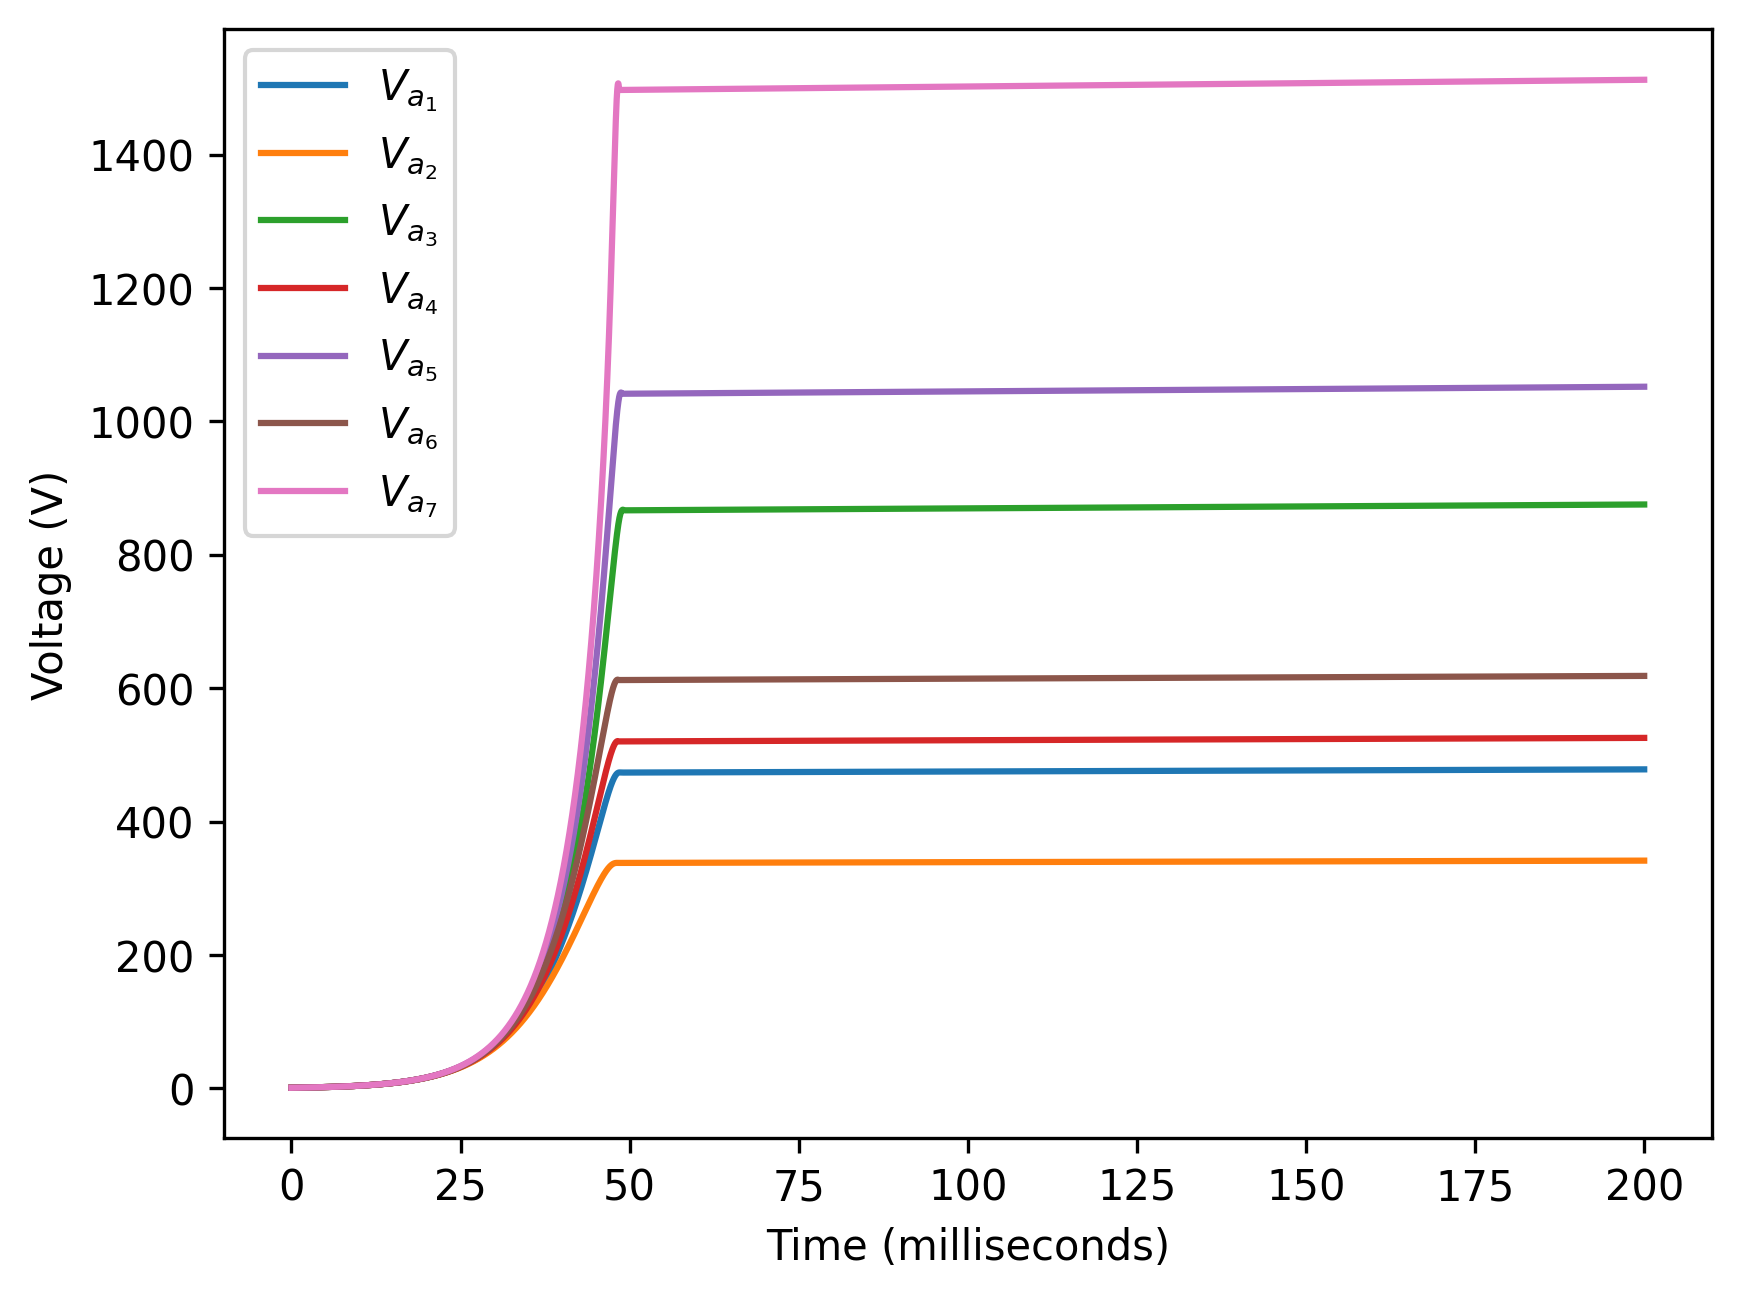
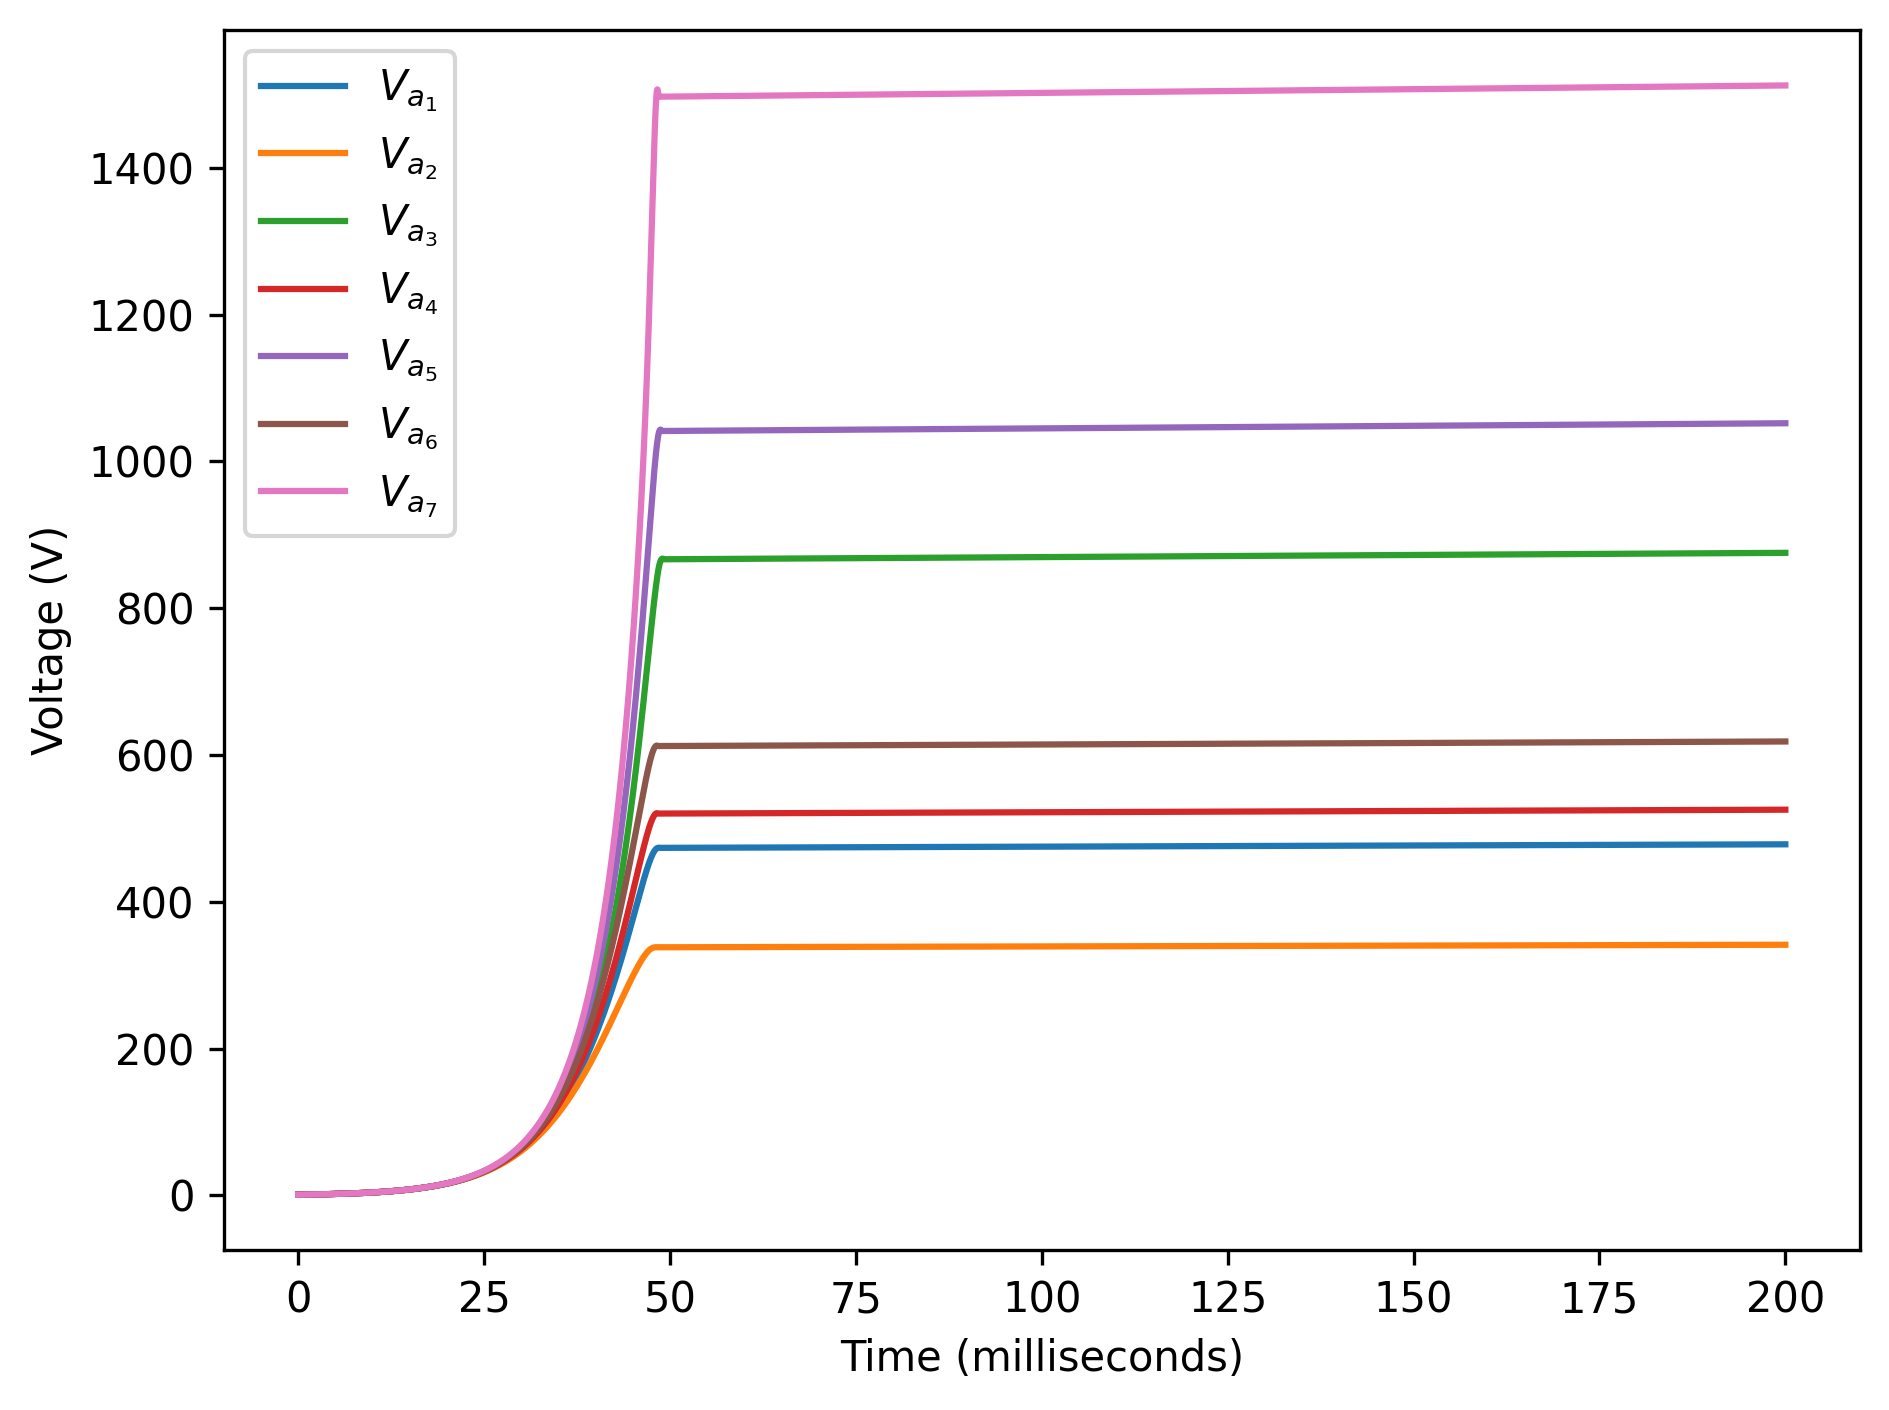
am new updated plots

diff --git a/src/am_new.py b/src/am_new.py
@@ -91,12 +91,13 @@ def simulate_am_circuit():
     """
     # Define component values
     # R = 10e3
-    R = 15990
-    C = 0.01e-6
+
+    R = 15e3  # 15kΩ
+    C = 10e-9  # 10nF
 
     # Set simulation parameters
     step_time = 1@u_us  # Larger step size for more stable solution
-    end_time = 0.5@u_ms  # Simulation duration
+    end_time = 500@u_us  # Simulation duration
     
     # Create figures for combined plots
     fig1 = plt.figure(figsize=(15, 10))
@@ -110,7 +111,7 @@ def simulate_am_circuit():
     all_growth_rates = []
     all_labels = []
 
-    n1_init = 0.01
+    n1_init = 1.0
     cases = [
         {'vi1': 0.0, 'vi2': 0.0, 'vi3': 0.0, 'cm1': 1, 'cm2': 1, 'cm3': 1},
         {'vi1': 0.0, 'vi2': 0.0, 'vi3': 0.0, 'cm1': -1, 'cm2': -1, 'cm3': -1},
@@ -164,15 +165,14 @@ def simulate_am_circuit():
         
         # Set analysis parameters to improve convergence
         simulator.options(
-            reltol=1e-2,       # Reasonable tolerance 
-            abstol=1e-4,       # Reasonable absolute tolerance
-            method='trap',     # Trapezoidal integration method
-            gmin=1e-9,         # Minimum conductance
-            maxord=2,          # Maximum order for integration method
-            itl1=500,          # Increased DC iteration limit
-            itl4=2000,         # Increased transient iteration limit
-            maxstep=10e-6,     # Larger maximum time step
-            uic=True           # Use initial conditions (crucial for correct behavior)
+            reltol=1e-2,     # Relaxed relative tolerance (was 1e-3)
+            abstol=1e-5,     # Relaxed absolute tolerance (was 1e-6)
+            itl1=500,        # Increased DC iteration limit (was 100)
+            itl2=200,        # Increased DC transfer curve iteration limit (was 50)
+            itl4=100,        # Transient analysis iteration limit
+            gmin=1e-10,      # Minimum conductance
+            method='gear',   # Integration method (alternatives: 'trap', 'euler')
+            maxord=2         # Maximum order for integration method
         )
         
         # Run transient simulation
@@ -211,22 +211,23 @@ def simulate_am_circuit():
         all_labels.append(f'R = {R/1000:.1f} kΩ')
     
         # Plot on the combined figures
-        plotted = ax1.plot(time * 1000, vam, linestyle='-', linewidth=1, label=f'vi1={vi1}, vi2={vi2}, vi3={vi3}, cm1={cm1}, cm2={cm2}, cm3={cm3}')
-        color = plotted[0].get_color()
-        ax1.plot(time * 1000, vam_theory, linestyle='--', linewidth=2, label=f'Theoretical vi1={vi1}, vi2={vi2}, vi3={vi3}, cm1={cm1}, cm2={cm2}, cm3={cm3}', color=color)
-        ax2.semilogy(time * 1000, np.abs(vam), linewidth=2, label=f'vi1={vi1}, vi2={vi2}, vi3={vi3}, cm1={cm1}, cm2={cm2}, cm3={cm3}')
+        label = f'$V_{{i_1}}={vi1}$ V, $V_{{i_2}}={vi2}$ V, $V_{{i_3}}={vi3}$ V, $c_{{m,i_1}}={cm1}$, $c_{{m,i_2}}={cm2}$, $c_{{m,i_3}}={cm3}$'
+        plotted = ax1.plot(time * 1000000, vam, linestyle='-', linewidth=2, label=label)  # noqa: F841
+        # color = plotted[0].get_color()
+        # ax1.plot(time * 1000000, vam_theory, linestyle='--', linewidth=2, label=f'Theoretical vi1={vi1}, vi2={vi2}, vi3={vi3}, cm1={cm1}, cm2={cm2}, cm3={cm3}', color=color)
+        ax2.semilogy(time * 1000000, np.abs(vam), linewidth=2, label=label)
     
     # Format the first figure (linear and log plots)
-    ax1.set_xlabel('Time [ms]', fontsize=12)
+    ax1.set_xlabel('Time [$\mu$s]', fontsize=12)
     ax1.set_ylabel('Output Voltage (Vam) [V]', fontsize=12)
-    ax1.set_title('AM Circuit Output Voltage vs Time (All Resistances)', fontsize=14)
-    ax1.set_ylim(0, 1)
+    ax1.set_title('$V_{{a_m}}$ vs Time', fontsize=14)
+    ax1.set_ylim(0, 20)
     ax1.grid(True)
     ax1.legend(fontsize=10)
     
-    ax2.set_xlabel('Time [ms]', fontsize=12)
+    ax2.set_xlabel('Time [$\mu$s]', fontsize=12)
     ax2.set_ylabel('|Output Voltage| (Log Scale) [V]', fontsize=12)
-    ax2.set_title('AM Circuit Output Voltage - Log Scale (All Resistances)', fontsize=14)
+    ax2.set_title('$V_{{a_m}}$ vs Time - Log Scale', fontsize=14)
     ax2.grid(True)
     ax2.legend(fontsize=10)
     

diff --git a/src/main.py b/src/main.py
@@ -316,13 +316,14 @@ def plot_3sat_results(analysis, variable_names, clauses, file_name, show_plot=Tr
         node_name = f'var_{name}'
         final_voltage = float(analysis[node_name][-1])
         satisfied_text = "True" if final_voltage > 0.5 else "False"
-        plt.plot(analysis.time * 1e3, analysis[node_name], label=f'$V_{i + 1}$ ({satisfied_text})')
+        plt.plot(analysis.time * 1e3, analysis[node_name], label=f'$V_{{{i + 1}}}$ ({satisfied_text})')
             
     # Add a title and y-label for this subplot
     # plt.title('Evolution of variable voltages over time')
     plt.xlabel('Time (milliseconds)')
     plt.ylabel('Voltage (V)')
     plt.legend()
+    plt.tight_layout()
 
     # Save the plot
     plt.savefig(f'graphs/{file_name}_variables.png', dpi=300, bbox_inches='tight')
@@ -334,13 +335,14 @@ def plot_3sat_results(analysis, variable_names, clauses, file_name, show_plot=Tr
     # Plot each clause's vam node
     for i in range(len(clauses)):
         node_name = f'xclause_{i}.vam'
-        plt.plot(analysis.time * 1e3, analysis[node_name], label=f'$V_{{a_{i + 1}}}$')
+        plt.plot(analysis.time * 1e3, analysis[node_name], label=f'$V_{{a_{{{i + 1}}}}}$')
         
     # Add a title and y-label for this subplot
     # plt.title('Evolution of clause auxiliary node voltages over time')
     plt.xlabel('Time (milliseconds)')
     plt.ylabel('Voltage (V)')
     plt.legend()
+    plt.tight_layout()
     
     # Save the plot
     plt.savefig(f'graphs/{file_name}_clauses.png', dpi=300, bbox_inches='tight')
